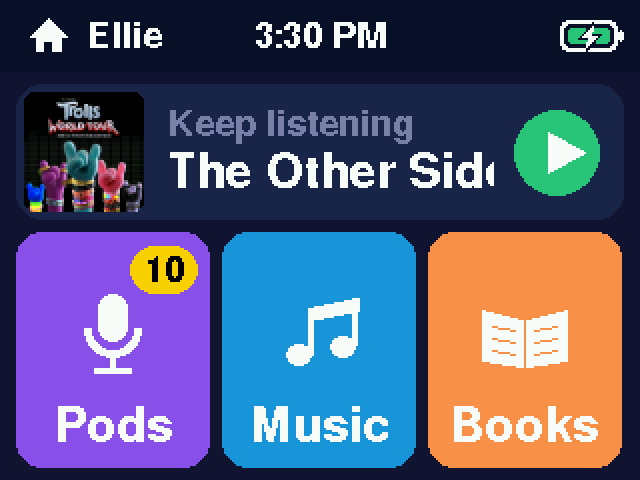
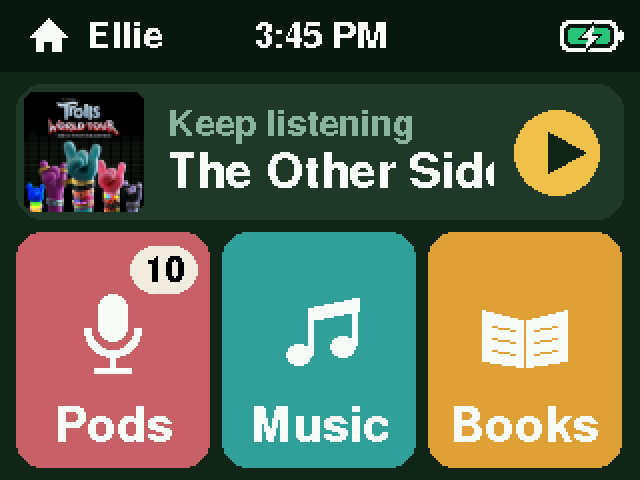
Color themes: Forest (default), Navy, Ocean, Sunset, Midnight; Colors on the grown-ups screen

diff --git a/README.md b/README.md
@@ -40,7 +40,8 @@ everything on it chosen by a grown-up.
 ## For grown-ups
 
 Hold two of the touch buttons below the screen for 3 seconds for the grown-ups screen:
-the loudest the volume goes, brightness, auto-off, Bluetooth pairing, switching to WiFi
+the loudest the volume goes, brightness, auto-off, the colors (Forest, Navy, Ocean,
+Sunset, Midnight), Bluetooth pairing, switching to WiFi
 mode, and stats.
 
 **Bluetooth and WiFi.** The ESP32 can't fit Bluetooth audio and WiFi at once, so Tiny Tunes

diff --git a/CHANGELOG.md b/CHANGELOG.md
@@ -6,6 +6,12 @@ e.g. `0.3.0+6.cb61af8`.
 
 ## Unreleased
 
+### Added
+- Color themes, picked on the grown-ups screen (Settings → Colors, tap either side to
+  step through): Forest (new, the default: deep green with berry, teal and honey
+  shelves and a gold play button), Navy (the colors until now), Ocean, Sunset and
+  Midnight.
+
 ## 0.11.0 — 2026-10-26
 
 ### Fixed
